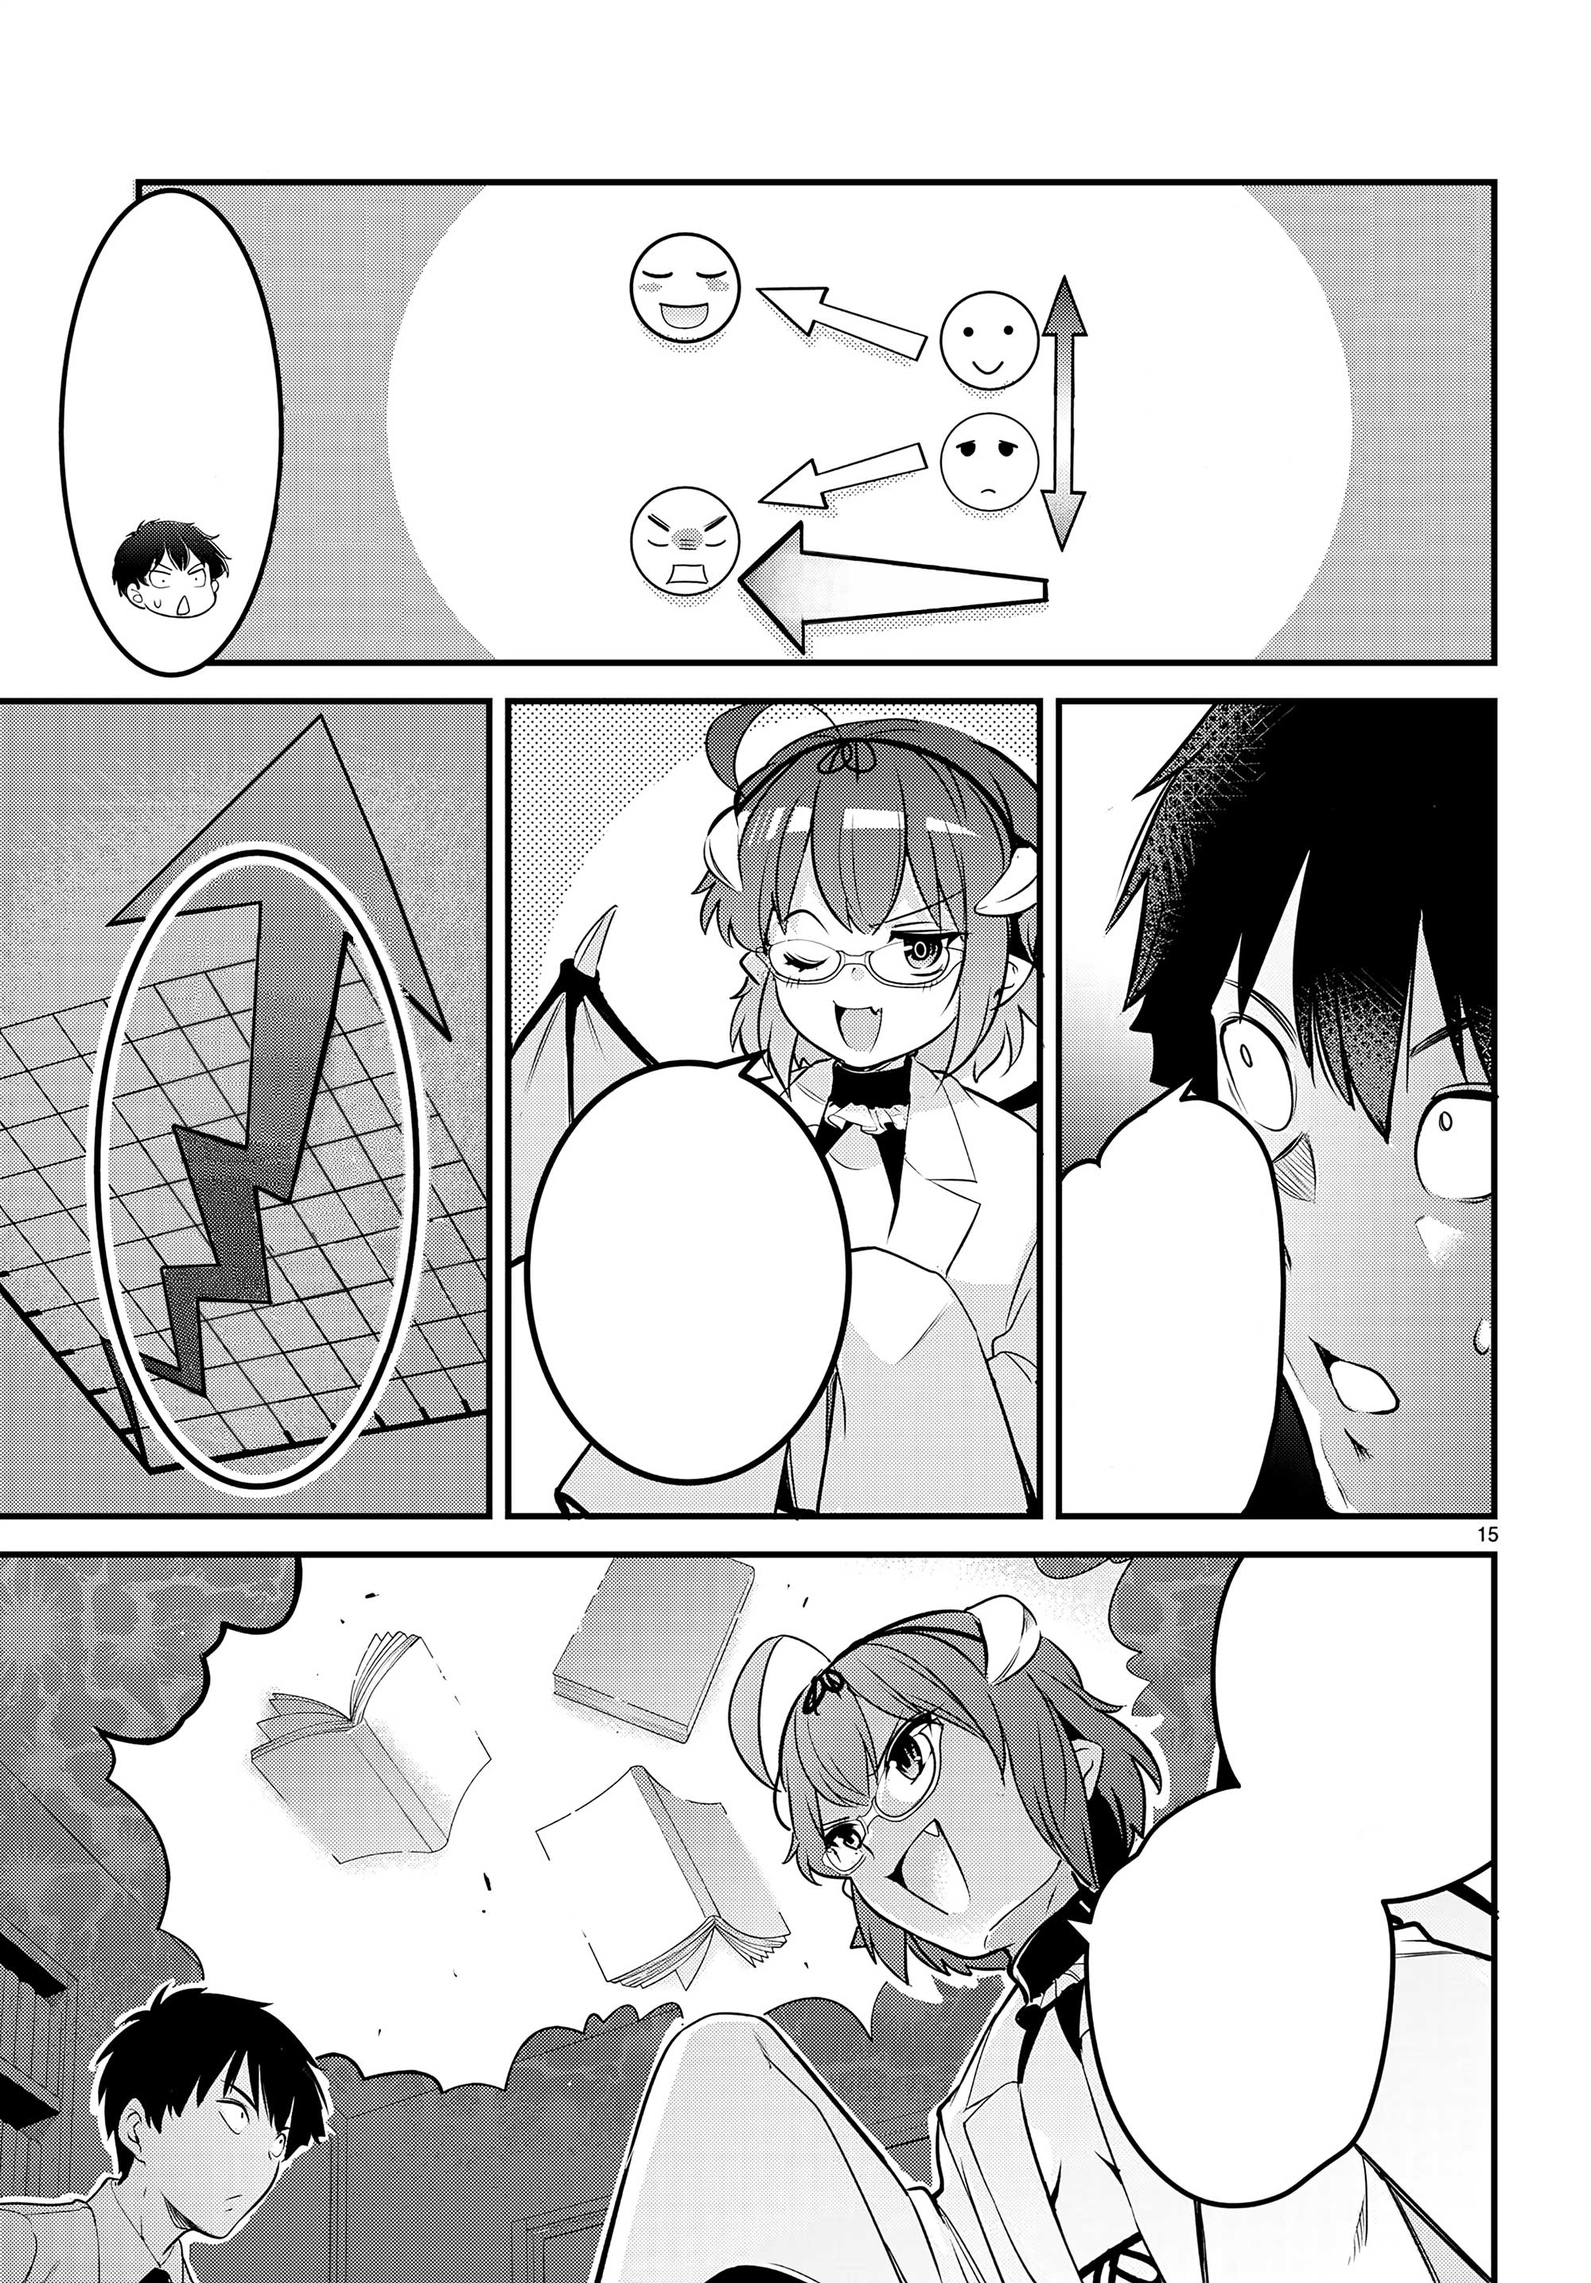
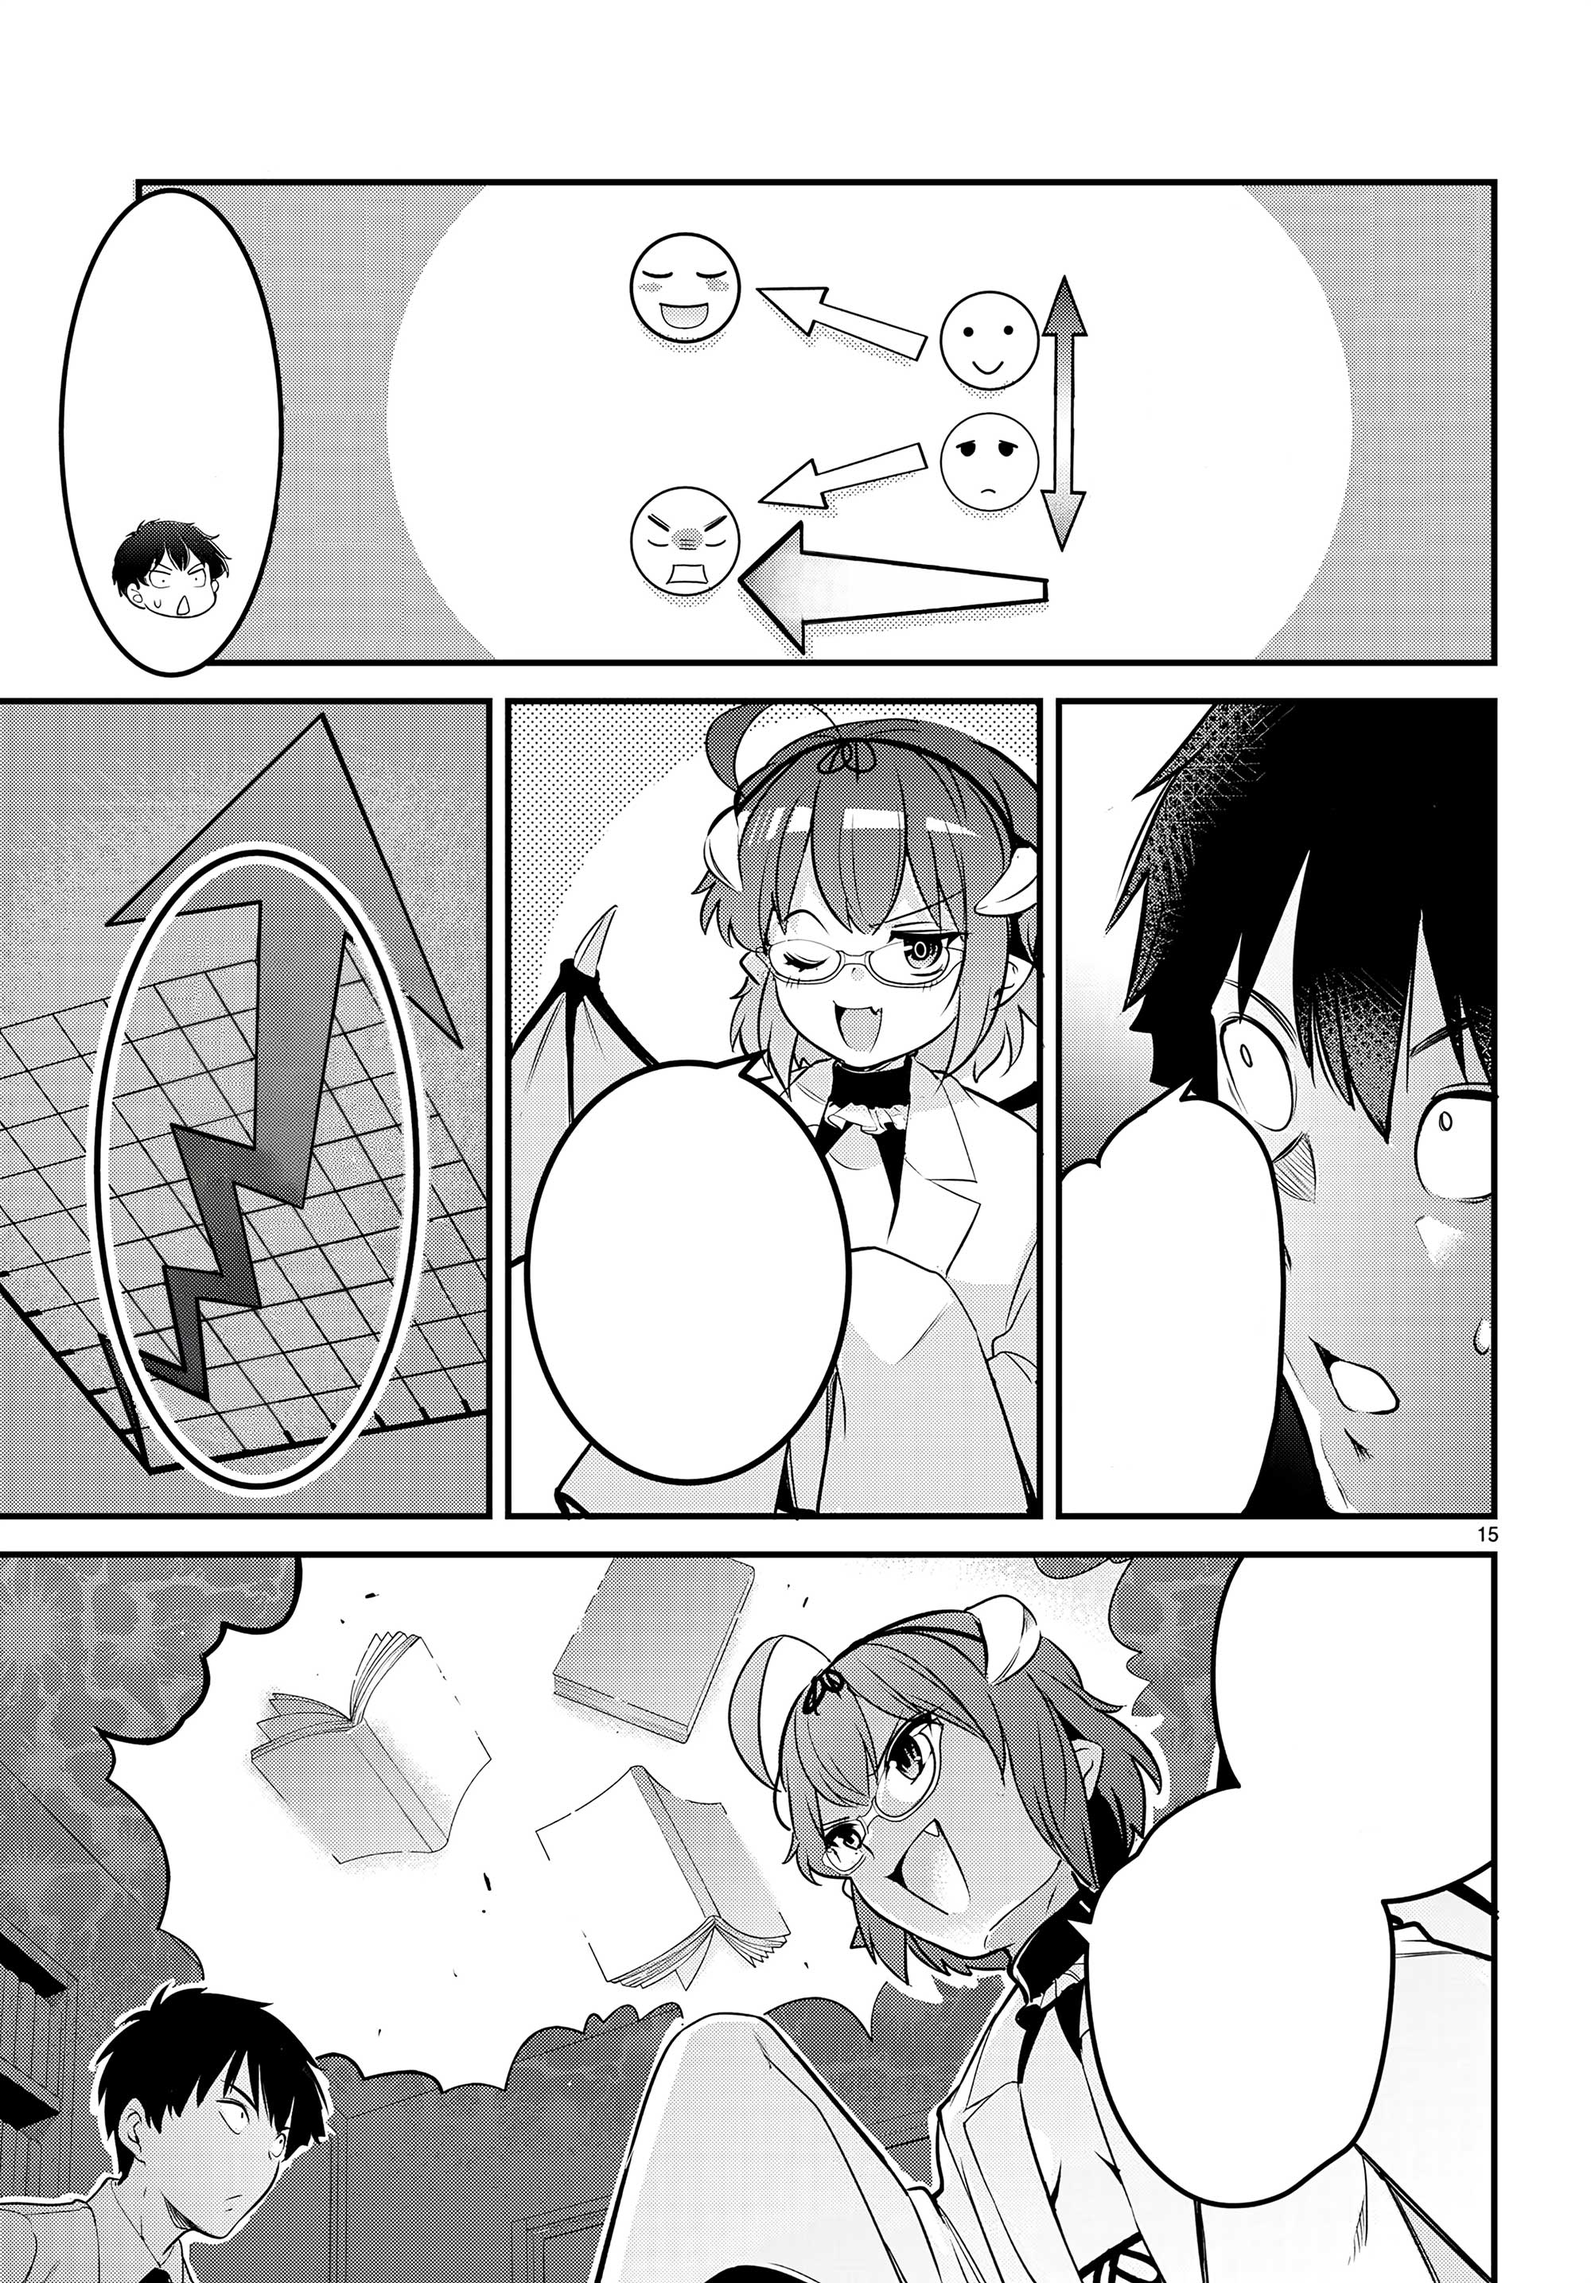
updates

Changed region(s): [[0.062, 0.3721, 0.31, 0.6202], [0.062, 0.3721, 0.155, 0.4031]]

diff --git a/README.md b/README.md
@@ -5,9 +5,10 @@ This repository is a showcase of my image editing work, focusing on **scanlation
 Each folder contains a specific project with **before-and-after images**, so you can clearly see the transformation and the techniques used.
 
 ## 🛠 Tools Used
+
 - Adobe Photoshop 2019 and 2022 ( [Download here](https://docs.google.com/document/d/17PheyyF9dm7YYjaTZ9JAAY3hhdeIQ7sJ4sylTG9_6xI/edit?tab=t.0) )
 
-- Clip Studio Paint 3.0.0 ([Download Here](https://drive.google.com/drive/folders/1_HbsAYQNwWICdPN7ksORUD_sYU9vzmaE) and [Get More Brushes](https://drive.google.com/drive/u/0/folders/1y2YTBmYfEOYV2CTgBjpNizrIlMzi6H2W))
+- Clip Studio Paint 3.0.0 ([Download Here](https://drive.google.com/drive/folders/1_HbsAYQNwWICdPN7ksORUD_sYU9vzmaE) and [Get More Brushes](https://drive.google.com/drive/u/0/folders/1y2YTBmYfEOYV2CTgBjpNizrIlMzi6H2W)) , Speedlines[1](https://assets.clip-studio.com/en-us/detail?id=1739738), [2](https://assets.clip-studio.com/en-us/detail?id=1496777), [3](https://assets.clip-studio.com/ja-jp/detail?id=1721568), [4](https://assets.clip-studio.com/ja-jp/detail?id=2005591)
 
 - (Planned for unforseen future) GIMP
 
@@ -15,22 +16,24 @@ Each folder contains a specific project with **before-and-after images**, so you
 
 ## Resources to Learn
 
-
-- [PIXIMPERFECT](https://www.youtube.com/@PiXimperfect) tutorials 
+- [PIXIMPERFECT](https://www.youtube.com/@PiXimperfect) tutorials
 - [This Guy Does Photoshop](https://www.youtube.com/@thisguydoesphotoshop) tutorials
 - [TutVid](https://www.youtube.com/@tutvid) tutorials
 - [MikiiChi's Guide](https://drive.google.com/drive/folders/1a04Za8iIBb9sBj2M1-msj7VVSBdAtzsO?usp=drive_link) (The google slides are really good and give a starting direction and some rules to keep in mind) and her [YouTube tutorials on cleaning](https://www.youtube.com/watch?v=fkFx5yt482Q)
 - [FatManTube](https://www.youtube.com/@FatManTube) tutorials dedicated to cleaning and redrawing.
 - [GiSama](https://www.youtube.com/@gisama315) specially for manga redrawing
 - [Astranim's video](https://www.youtube.com/watch?v=x0J2ZltOE38&t=17s) on coloring.
-- ⚠ [Speedlines OLD ](https://www.youtube.com/watch?v=s4WaVPofMJw) tutorial from Photoshop training channel ( ⚠ link to download no longer works, not much useful) 
+- ⚠ [Speedlines OLD ](https://www.youtube.com/watch?v=s4WaVPofMJw) tutorial from Photoshop training channel ( ⚠ link to download no longer works, not much useful)
 - [Speedlines brushes](https://psfiles.com/manga-speedlines-brushes/) by Shadowmist ([alternative download link](https://myphotoshopbrushes.com/brushes/id/3816/))
 
 ### ⚡⚡
+
 Still on lookout for speedline resources
 
 ## 📂 Folder Structure
+
 Each folder contains:
+
 - `before.png` — Original image
 - `after.png` — Final result
 - `README.md` — Side-by-side comparison and context
@@ -38,32 +41,32 @@ Each folder contains:
 
 ---
 
-Thanks for checking out my work! 
+Thanks for checking out my work!
 
 If you'd like to collaborate or have feedback, feel free to [contact me](https://x.com/_JoydeepMallick).
 
 ...
 
 ## 📂 Folder Structure
+
 Each folder contains:
+
 - `before.png` — Original image
 - `after.png` — Final result
 - `README.md` — Side-by-side comparison and context
 
 ---
 
-
 ### ⚠ Disclaimer
 
-> **All the `before` images used in this repository are the property of their respective publishers, authors, and copyright holders.**  
->  
-> This work is purely **non-commercial** and intended **only as a portfolio to demonstrate image editing skills** (such as cleaning, redrawing, and retouching) using tools like Adobe Photoshop.  
->  
+> **All the `before` images used in this repository are the property of their respective publishers, authors, and copyright holders.**
+>
+> This work is purely **non-commercial** and intended **only as a portfolio to demonstrate image editing skills** (such as cleaning, redrawing, and retouching) using tools like Adobe Photoshop.
+>
 > No infringement is intended. If you are a copyright holder and would like any content removed, please [contact me](https://x.com/_JoydeepMallick), and I will take immediate action.
 
 ---
 
-Thanks for checking out my work! 
+Thanks for checking out my work!
 
 If you'd like to collaborate or have feedback, feel free to [contact me](https://x.com/_JoydeepMallick).
-
